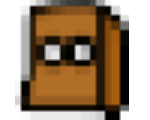
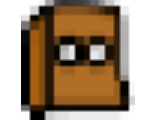
Adding hats...

diff --git a/files/stages.js b/files/stages.js
@@ -52,28 +52,28 @@ function init_items(){
   //Generate the whole list
   // ItemInfo(id, url, item type)
   // HATS // (id, url, type, sizex, sizey, offsetx, offsety, hp )
-  all_items.push(new ItemInfo("Plastic bag", "files/pictures/Plastig_bag_down.png", 0, 0, 0, 0, 0, -5)) 
-  all_items.push(new ItemInfo("Sauce Pan", "files/pictures/Sauce_pan_on.png", 0, 0, 0, 0, 0, 10)) 
-  all_items.push(new ItemInfo("Make Up", "files/pictures/Make_up_up.png", 0, 0, 0, 0, 0, 7)) 
-  all_items.push(new ItemInfo("Top Hat", "files/pictures/TopHat.png", 0, 0, 0, 0, 0, 3)) 
+  all_items.push(new ItemInfo("Plastic bag", "files/pictures/plastic_bag_on.png", 0, 40, 40, 0, 0, -5)) 
+  all_items.push(new ItemInfo("Sauce Pan", "files/pictures/sauce_pan_down.png", 0, 20, 20, 0, 0, 10)) 
+  all_items.push(new ItemInfo("Make Up", "files/pictures/Make_up_down.png", 0, 20, 20, 0, 0, 7)) 
+  all_items.push(new ItemInfo("Top Hat", "files/pictures/TopHat.png", 0, 20, 20, 0, 0, 3)) 
+  all_items.push(new ItemInfo("Jugernaut", "files/pictures/jugernaut.png", 0, 45, 28, 0, 0, 50)) 
   // Left Hands
-  all_items.push(new ItemInfo("Shroom", "files/pictures/Mushroom.png", 1, 0, 0, 0, 0, -15)) 
-  all_items.push(new ItemInfo("Bin Lid", "files/pictures/shield.png", 1, 0, 0, 0, 0, 14))  
-  all_items.push(new ItemInfo("MicroPhone", "files/pictures/Microphone.png", 1, 0, 0, 0, 0, -20)) 
-  // right arm
-  all_items.push(new ItemInfo("Flowers", "files/pictures/Flowers.png", 2, 0, 0, 0, 0, 5)) 
-  all_items.push(new ItemInfo("Cricket Bat", "files/pictures/CriketBat.png", 2, 0, 0, 0, 0, 25))  
-  all_items.push(new ItemInfo("Rat-Flail", "files/pictures/Rat_flail.png", 2, 0, 0, 0, 0, 3))  
+  all_items.push(new ItemInfo("Shroom", "files/pictures/Mushroom.png", 1, 20, 20, 0, 0, -15)) 
+  all_items.push(new ItemInfo("Bin Lid", "files/pictures/shield.png", 1, 20, 20, 0, 0, 14))  
+  all_items.push(new ItemInfo("MicroPhone", "files/pictures/Microphone.png", 1, 20, 20, 0, 0, -20)) 
+  all_items.push(new ItemInfo("Flowers", "files/pictures/Flowers.png", 1, 20, 20, 0, 0, 5)) 
+  all_items.push(new ItemInfo("Cricket Bat", "files/pictures/CriketBat.png", 1, 20, 20, 0, 0, 25))  
+  all_items.push(new ItemInfo("Rat-Flail", "files/pictures/Rat_flail.png", 1, 20, 20, 0, 0, 3))  
   // Torso
-  all_items.push(new ItemInfo("Medal", "files/pictures/Mdeal.png", 3, 0, 0, 0, 0, -6))  
-  all_items.push(new ItemInfo("Spiky Bra", "files/pictures/Bra.png", 3, 0, 0, 0, 0, 2))  
-  all_items.push(new ItemInfo("Shoulder Pads", "files/pictures/shoulders.png", 3, 0, 0, 0, 0, 8))  
-  all_items.push(new ItemInfo("Bullet-Proof Vest", "files/pictures/bulletproofvest.png", 3, 0, 0, 0, 0, 12))  
+  all_items.push(new ItemInfo("Medal", "files/pictures/Mdeal.png", 3, 20, 20, 0, 0, -6))  
+  all_items.push(new ItemInfo("Spiky Bra", "files/pictures/Bra.png", 3, 20, 20, 0, 0, 2))  
+  all_items.push(new ItemInfo("Shoulder Pads", "files/pictures/shoulders.png", 3, 20, 20, 0, 0, 8))  
+  all_items.push(new ItemInfo("Bullet-Proof Vest", "files/pictures/bulletproofvest.png", 3, 20, 20, 0, 0, 12))  
   // Feet
-  all_items.push(new ItemInfo("Wellies", "files/pictures/Wellies.png", 4, 0, 0, 0, 0, -8)) 
-  all_items.push(new ItemInfo("Flip Flops", "files/pictures/FlipsFlops.png", 4, 0, 0, 0, 0, -14)) 
-  all_items.push(new ItemInfo("'Platforms", "files/pictures/Platforms.png", 4, 0, 0, 0, 0, 6)) 
-  all_items.push(new ItemInfo("Roller-Skates", "files/pictures/Rollerskates.png", 4, 0, 0, 0, 0, 14))  
+  all_items.push(new ItemInfo("Wellies", "files/pictures/Wellies.png", 4, 20, 20, 0, 0, -8)) 
+  all_items.push(new ItemInfo("Flip Flops", "files/pictures/FlipsFlops.png", 4, 20, 20, 0, 0, -14)) 
+  all_items.push(new ItemInfo("'Platforms", "files/pictures/Platforms.png", 4, 20, 20, 0, 0, 6)) 
+  all_items.push(new ItemInfo("Roller-Skates", "files/pictures/Rollerskates.png", 4, 20, 20, 0, 0, 14))  
   
  
   //Randomize a subset and add it to items
@@ -86,7 +86,7 @@ function init_items(){
       i = i+1
     }
     all_items[i].selected = true
-    items.push(new DrawableBox(item_posx[a],  (game_screen.height - item_posy[a]), 20, 20 ,-1,0,all_items[i].type, all_items[i].url, i))
+    items.push(new DrawableBox(item_posx[a],  (game_screen.height - item_posy[a]), all_items[i].sizex,all_items[i].sizey,-1,0,all_items[i].type, all_items[i].url, i))
   }
 }
 

diff --git a/files/globalgamejam.js b/files/globalgamejam.js
@@ -15,8 +15,8 @@ function releasing_click_up() {
       //Check what type of object is
       if(item.type == 0){ //head
         if(character.type.num_avalaible > 0 && character.type.head == -1){
-          item.posx = character.posx
-          item.posy = character.posy - character.sizey - 10
+          item.posx = character.posx - 5
+          item.posy = character.posy - character.sizey/2 - 5
           character.type.head = mouse_position.dragging
           character.type.num_avalaible--
         } else{
